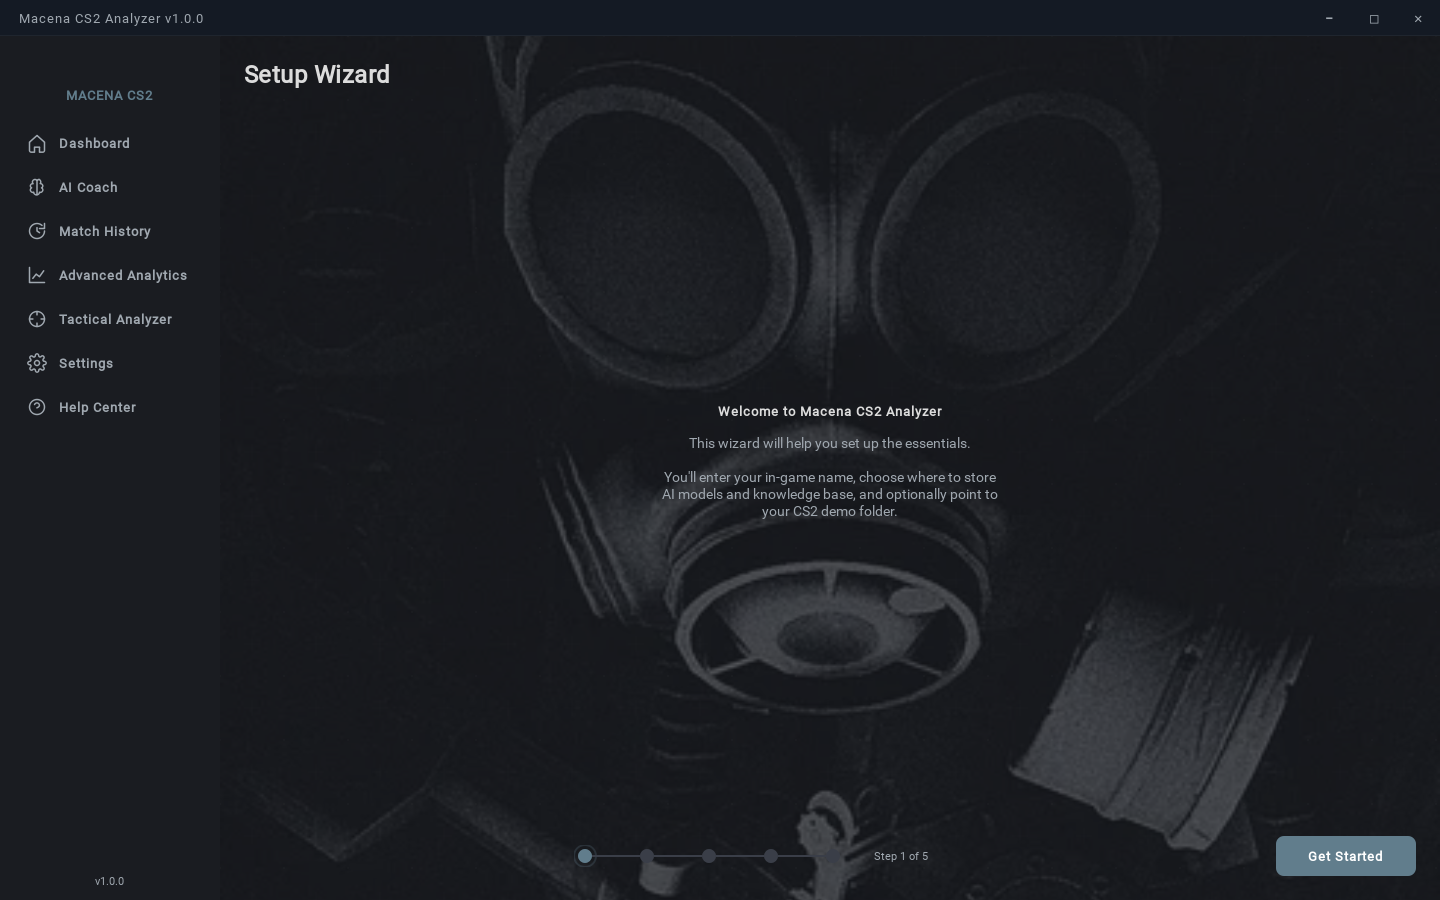
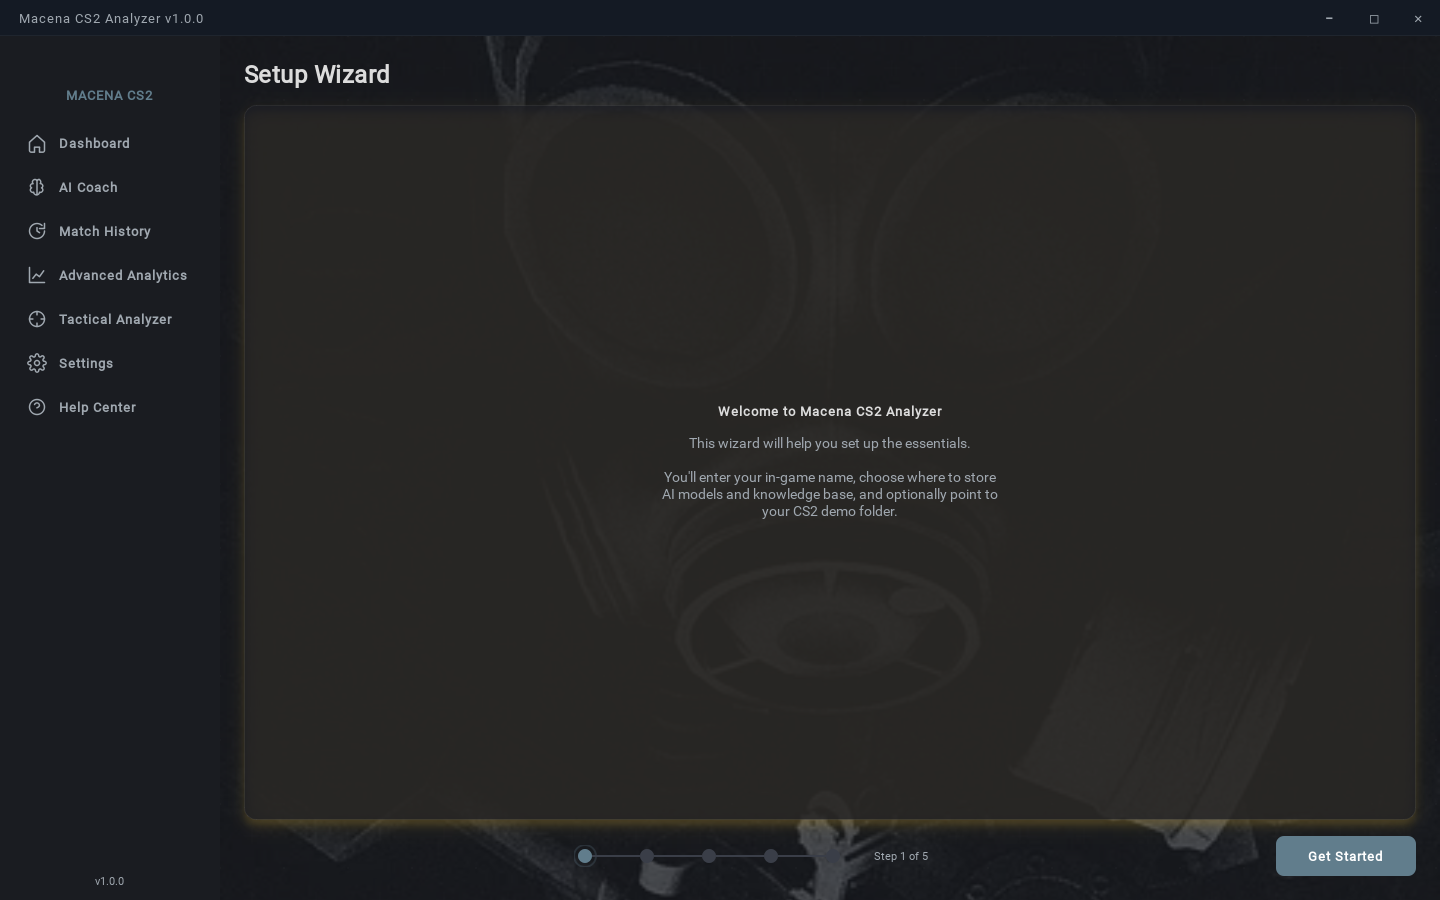
fix(ui): frosted panel behind wizard steps for wallpaper legibility (P1)
The first-run Setup Wizard rendered its welcome/step copy directly on the
desktop wallpaper, leaving low-contrast text floating over a busy background
— the least-legible screen in the app and the first one a new user sees
(UX visual audit P1).

Wrap the 5-page step stack in a Card(depth="frosted"): a ~0.78-alpha,
theme-driven glass panel (navy/gold/dark-gold per theme) with a hairline
border and accent-tinted glow. Welcome copy is now fully legible while the
wallpaper shows tastefully through the glass. No hardcoded values — reuses
the design-system frosted tier + design_tokens, so it stays consistent
across CS2 / CSGO / CS1.6.

Verified by re-rendering the wizard offscreen across all three themes
(docs/ux-audit/renders/*/wizard.png updated). Note: tools/headless_validator.py
not run here (requires the Linux/py3.12 dev env, not this Windows checkout) —
run it before merge.

- Programma_CS2_RENAN/apps/qt_app/screens/wizard_screen.py: frosted Card wrap
- docs/ux-audit/UX_VISUAL_AUDIT.md: mark P1 resolved
- docs/ux-audit/renders/{CS2,CSGO,CS16}/wizard.png: refreshed

Changed region(s): [[0.1562, 0.7467, 0.9688, 0.9333], [0.4688, 0.6222, 0.6875, 0.7778], [0.4375, 0.56, 0.4688, 0.5911]]

diff --git a/Programma_CS2_RENAN/apps/qt_app/screens/wizard_screen.py b/Programma_CS2_RENAN/apps/qt_app/screens/wizard_screen.py
@@ -19,6 +19,7 @@ from PySide6.QtWidgets import (
 from Programma_CS2_RENAN.apps.qt_app.core.i18n_bridge import i18n
 from Programma_CS2_RENAN.apps.qt_app.core.design_tokens import get_tokens
 from Programma_CS2_RENAN.apps.qt_app.core.typography import Typography
+from Programma_CS2_RENAN.apps.qt_app.widgets.components.card import Card
 from Programma_CS2_RENAN.apps.qt_app.widgets.components.stepper import Stepper
 from Programma_CS2_RENAN.core.config import save_user_setting
 from Programma_CS2_RENAN.observability.logger_setup import get_logger
@@ -75,12 +76,21 @@ class WizardScreen(QWidget):
 
         # 5-page stack
         self._stack = QStackedWidget()
+        self._stack.setStyleSheet("QStackedWidget { background: transparent; }")
         self._stack.addWidget(self._build_intro_page())  # 0
         self._stack.addWidget(self._build_name_page())  # 1
         self._stack.addWidget(self._build_brain_page())  # 2
         self._stack.addWidget(self._build_demo_page())  # 3
         self._stack.addWidget(self._build_finish_page())  # 4
-        layout.addWidget(self._stack, 1)
+
+        # P1 (UX visual audit): float the step content on a frosted panel so the
+        # intro/finish copy stays legible over the desktop wallpaper instead of
+        # rendering directly on the busy background. frost_bg is ~0.78 alpha and
+        # theme-driven, so legibility stays consistent across CS2 / CSGO / CS16.
+        content_panel = Card(depth="frosted")
+        content_panel.content_layout.setContentsMargins(28, 28, 28, 28)
+        content_panel.content_layout.addWidget(self._stack)
+        layout.addWidget(content_panel, 1)
 
         # Bottom bar with Back + Next buttons
         bottom = QHBoxLayout()

diff --git a/docs/ux-audit/UX_VISUAL_AUDIT.md b/docs/ux-audit/UX_VISUAL_AUDIT.md
@@ -56,8 +56,10 @@ Each theme correctly loads its own wallpaper (`vertical_wallpaper_cs2_A` / `…c
 
 ## 5. Gaps to Steam tier (prioritized)
 
-### P1 — First-run wizard contrast *(confirmed across themes + correct wallpapers)*
-The wizard's "Welcome to Macena CS2 Analyzer" copy floats as small, low-contrast text directly over the wallpaper + diagonal color split, with **no panel behind it**. This is the **first screen a new user sees** and it's the least legible. Fix: a semi-opaque content card behind the welcome copy. See `renders/CS2/wizard.png`, `renders/CS16/wizard.png`.
+### P1 — First-run wizard contrast — ✅ RESOLVED (2026-06-25)
+~~The wizard's "Welcome to Macena CS2 Analyzer" copy floats as small, low-contrast text directly over the wallpaper + diagonal color split, with **no panel behind it**. This is the **first screen a new user sees** and it's the least legible.~~
+
+**Fixed** in `wizard_screen.py`: the 5-page step stack is now wrapped in a `Card(depth="frosted")` — a ~0.78-alpha, theme-driven glass panel (navy/gold/dark-gold per theme) with a hairline border and accent-tinted glow. The welcome copy is now fully legible while the wallpaper shows tastefully through the glass. No hardcoded values — reuses the design-system `frosted` tier + `design_tokens`, so it stays consistent across CS2/CSGO/CS16. The updated `renders/*/wizard.png` reflect the fix.
 
 ### P2 — Wallpaper bleed on sparse screens
 On low-content screens (empty performance, empty match_detail) the wallpaper shows through and competes with content. Steam-tier apps blur+darken decorative imagery heavily (~0.08 opacity) so it never competes. Opaque/semi-opaque content panels or a stronger scrim would resolve it. Less severe than the initial (wrong-wallpaper) render suggested, but real.
@@ -110,7 +112,7 @@ No valid credential exists in any source (`.env`, `user_settings.json`, Windows 
 
 ## 8. Recommended next steps (when work resumes)
 
-1. **Wizard panel** (P1) — add a semi-opaque card behind the welcome copy. Highest impact, smallest change.
+1. ~~**Wizard panel** (P1) — add a semi-opaque card behind the welcome copy.~~ ✅ **Done** (2026-06-25) — frosted `Card` wrapper, see §5.
 2. **Wallpaper scrim** (P2) — darken/blur decorative imagery in content zones (a single `design_tokens` opacity + an overlay scrim).
 3. **CSGO selected-state** (P4) — bump the selected-pill contrast in the CSGO QSS.
 4. **Default to CS2 theme** for new installs (strongest first impression).